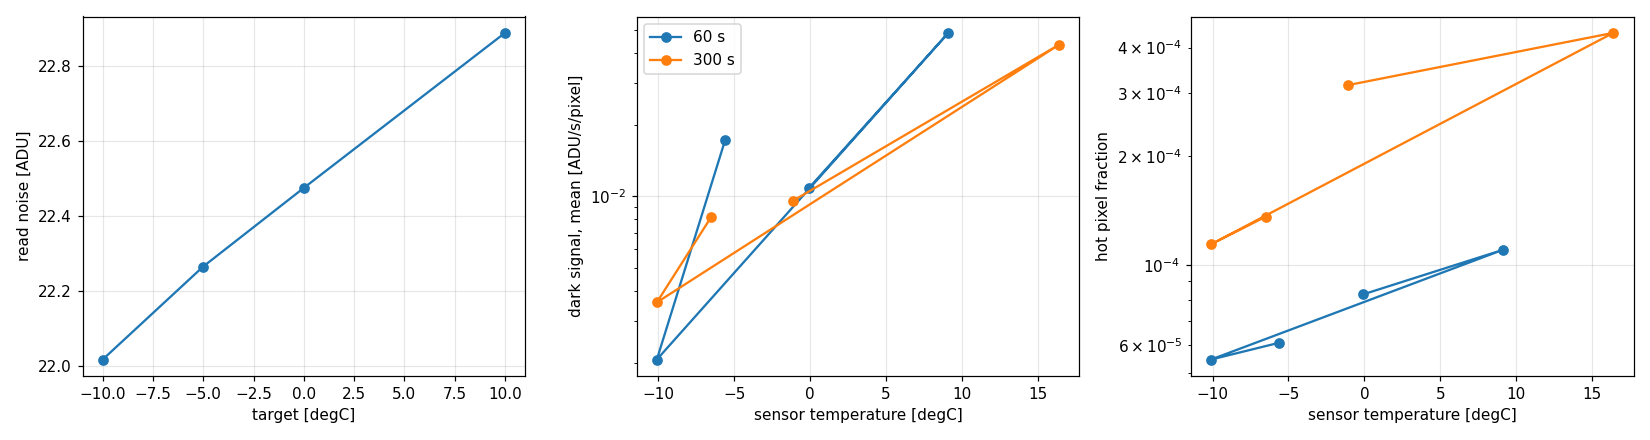
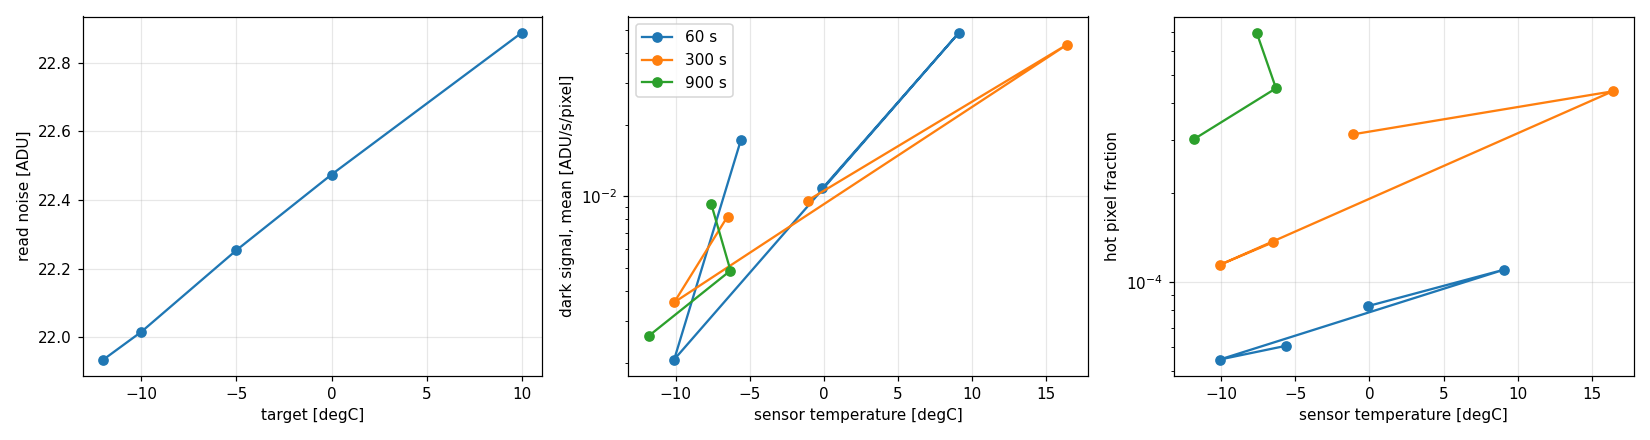
Skip CloseQHYCCD in characterize.py, add mode 1 900 s darks and USB tests
The script now calls only ReleaseQHYCCDResource on close, like the driver
(QHYCCD_CALL_CLOSE=1 calls CloseQHYCCD). The rerun of the mode 1 900 s
darks had no empty frames. A USB reset under an open handle reproduces the
empty frames; reopening clears them.

diff --git a/tools/characterize.py b/tools/characterize.py
@@ -59,6 +59,7 @@ import csv
 import ctypes
 import json
 import math
+import os
 import sys
 import threading
 import time
@@ -368,7 +369,10 @@ class Camera:
     def close(self) -> None:
         if self._controller is not None:
             self.set_cooler(False)
-        self.lib.CloseQHYCCD(self.handle)
+        # CloseQHYCCD of SDK 25.9.29.10 joins an uninitialized thread handle (see the docstring of
+        # pyobs_qhyccd.qhyccddriver), so it is skipped like in the driver unless QHYCCD_CALL_CLOSE=1
+        if os.environ.get("QHYCCD_CALL_CLOSE", "0") == "1":
+            self.lib.CloseQHYCCD(self.handle)
         self.lib.ReleaseQHYCCDResource()
 
 

diff --git a/characterization/QHY294PROM/cfb85516525f0aced/README.md b/characterization/QHY294PROM/cfb85516525f0aced/README.md
@@ -20,6 +20,8 @@ checked separately) or **from the SDK**. All numbers are for this unit.
   conversion gain between gain 1500 and 1600 (the bias noise falls from 21 to 7.6 ADU there, measured; the e- are inferred).
 - **Dark current** is 0.045 ADU/s at 10 °C and halves about every 5 °C. At -10 °C it is about 0.0037 ADU/s (300 s and
   900 s darks), and at -5 °C about 0.006 ADU/s (measured). There is no sign of amp glow in the mean (mean only; no images checked by eye).
+  Mode 1 has a quarter of that per pixel in electrons (0.0008 e-/s at -12 °C against 0.0033), the same per sensor area
+  (inferred).
 - **Readout:** 0.6 s per full frame of the effective area, independent of binning (measured).
 - **Cooling:** with the 1.5 A supply the cooler stopped working at 66% to 78% drive level (measured, twice). With a
   5 A supply it ran at full drive without trouble and reached -12.8 °C at an ambient of about 20 °C (measured), which is about
@@ -352,9 +354,21 @@ Same procedure as above (5 A supply, PI controller, gain 10, offset 140, 60 s an
   pairs scatter by more than the 300 s darks, as in mode 0 (the hot fraction is also lower at 60 s).
 - At -5 °C the 300 s dark gives 0.0082 ADU/s, a little above mode 0 (0.0064). The sensor was 1 °C colder during the 300 s
   dark than the setpoint, so the temperatures are not exactly the same. Two points are too few for an activation energy.
-- Whether the dark current per electron differs between the modes cannot be said before the gain (e-/ADU) of mode 1 is
-  measured. In ADU/s per pixel at gain 10 it is the same.
 - The bias noise falls from 22.26 to 22.02 ADU between -5 and -10 °C (6.83 to 6.77 ADU in mode 0).
+- **900 s darks at 0, -5 and -12 °C (mode 1, 5 A supply, 25 Nov):** 0.0093, 0.0049 and 0.0026 ADU/s (mean), hot
+  fraction 6.9e-4, 4.5e-4 and 3.0e-4, bias noise 22.47, 22.23 and 21.94 ADU. As in mode 0, the sensor temperature in the
+  records is wrong for the first (-7.6 °C at the 0 °C setpoint, power 0%), so I take the setpoints (inferred). The other
+  two read -6.3 and -11.8 °C.
+- **Per electron** (e-/ADU at gain 10 interpolated from the flats: 0.318 in mode 1, 1.027 in mode 0, inferred):
+
+  | Setpoint [°C] | Mode 1 [e-/s/px] | Mode 0 [e-/s/px] | Ratio |
+  |---|---|---|---|
+  | 0 | 0.0030 | 0.0124 | 4.2 |
+  | -5 | 0.0016 | 0.0059 | 3.8 |
+  | -12 | 0.0008 | 0.0033 | 4.0 |
+
+  Mode 0 has 4 times the dark current per pixel. A pixel of mode 0 covers 4 pixels of mode 1 (2x2, 4164 x 2822 against
+  8336 x 5648), so per sensor area the dark current is the same in both modes (inferred from the pixel counts).
 
 ## Gain from the dark shot noise, warm (measured, not usable)
 
@@ -602,12 +616,26 @@ The driver now refuses all-zero frames (`EmptyFrameError`), the GUI and the scri
 30 s, and the script stops at the first empty frame. Not tested: whether `CancelQHYCCDExposingAndReadout` frees a hung
 camera, and whether switching off the USB port power (for example with `uhubctl` on a hub that supports it) is enough.
 
+The script no longer calls `CloseQHYCCD` (only with `QHYCCD_CALL_CLOSE=1`), like the driver. The rerun of the mode 1
+900 s darks after that (25 Nov, 3.3 h) had no empty frames. The hang is rare, so this one run says little.
+
+USB tests on the healthy camera (26 Nov, camera on a root port of the PC, measured):
+
+- `usbreset` between two processes, and `authorized` 0/1 in sysfs: the camera works afterwards (1 ms bias 8982 ADU,
+  std 7.2, 0.8 s per frame). `authorized` 0/1 kept the device number, so it only rebinds; neither cuts the USB power.
+- **`usbreset` while the camera is open reproduces the symptom:** the next frame on the old handle came back as zeros
+  after 65.5 s, with success from the SDK. Closing and opening the camera again in the same process gave normal frames
+  at once. So a reset of the device under an open handle is one way to get the empty frames (measured). The hang on
+  25 Nov lasted across new processes and needed a replug, and the kernel log showed no reset then, so it is probably a
+  different state inside the camera (inferred).
+- Switching off the port power could not be tested: the root ports of this PC are not switchable (`uhubctl`), and the
+  only switchable hub belongs to a KVM switch, which drops its devices when switched.
+
 ## Not measured yet
 
 - **The switch gain to 1** (known to 10: mode 1 at 200, mode 0 at 1600).
 - **Sensor temperature during long darks:** log it from a second process or between frames (the readings after the 900 s
   darks are wrong).
-- **Read mode 1:** 900 s darks (the run on 25 Nov gave only empty frames, see the camera hang above).
 - **Temperature below -13 °C:** not reachable at about 20 °C ambient (see [Cooling](#cooling-and-the-power-supply)).
 - **Restart of the module with the cooler on** and the driver's PWM workaround (switched off by default) on the other QHY
   cameras: not tested; on this unit with the 5 A supply it was not needed.
